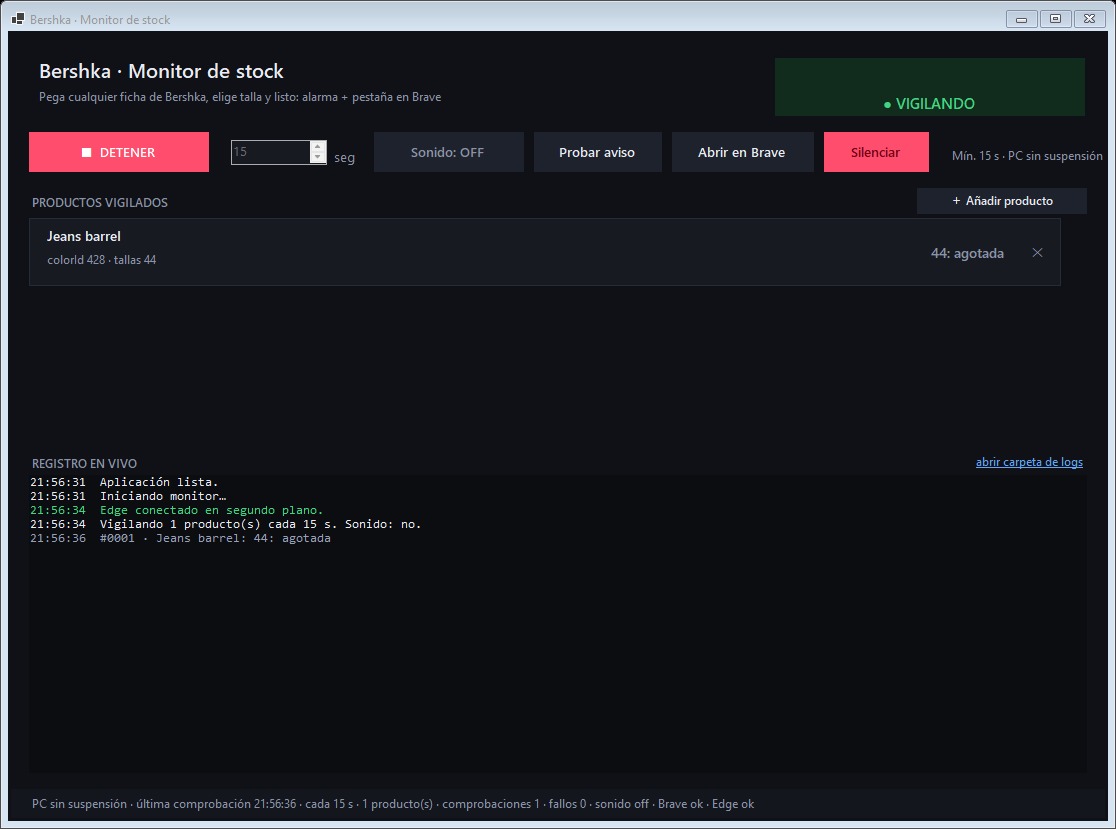
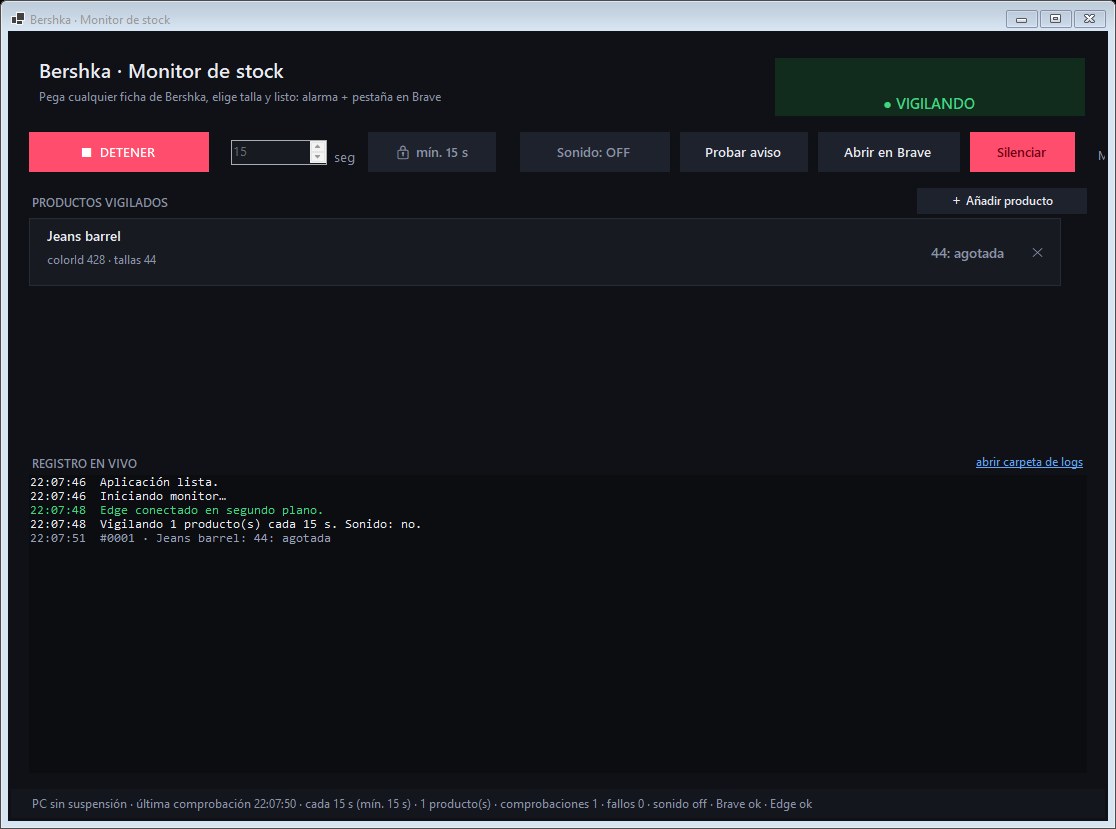
Candado de intervalo con aviso, README: solo alarma + open source y atribucion

diff --git a/MainForm.cs b/MainForm.cs
@@ -31,12 +31,14 @@ public sealed class MainForm : Form
     private bool _alertTestMode;
     private long _muteUntilTicks;
     private bool _soundEnabled;
+    private bool _allowFast;
 
     private Label _pill = null!;
     private Label _foot = null!;
     private Button _btnToggle = null!;
     private Button _btnSilence = null!;
     private Button _btnSound = null!;
+    private Button _btnLock = null!;
     private NumericUpDown _num = null!;
     private RichTextBox _log = null!;
     private FlowLayoutPanel _itemsPanel = null!;
@@ -45,7 +47,8 @@ public sealed class MainForm : Form
     public MainForm()
     {
         _config = AppConfig.Load(AppPaths.DataDir);
-        _intervalSec = Math.Clamp(_config.IntervalSeconds, 15, 120);
+        _allowFast = _config.AllowFastInterval;
+        _intervalSec = Math.Clamp(_config.IntervalSeconds, _allowFast ? 5 : 15, 120);
         _soundEnabled = _config.SoundEnabled;
         _alarm.Enabled = _soundEnabled;
 
@@ -228,9 +231,9 @@ public sealed class MainForm : Form
 
         _num = new NumericUpDown
         {
-            Minimum = 15,
+            Minimum = _allowFast ? 5 : 15,
             Maximum = 120,
-            Value = Math.Clamp(_intervalSec, 15, 120),
+            Value = Math.Clamp(_intervalSec, _allowFast ? 5 : 15, 120),
             Width = 96,
             Height = 30,
             Margin = new Padding(12, 8, 4, 0),
@@ -254,6 +257,11 @@ public sealed class MainForm : Form
             ForeColor = Palette.Muted,
             Margin = new Padding(0, 16, 0, 0)
         };
+
+        _btnLock = MakeButton(_allowFast ? "🔓 mín. 5 s" : "🔒 mín. 15 s", Palette.Chip, Palette.Text, 128);
+        _btnLock.Margin = new Padding(8, 0, 10, 0);
+        _btnLock.ForeColor = _allowFast ? Palette.Amber : Palette.Muted;
+        _btnLock.Click += (_, _) => ToggleFast();
 
         _btnSound = MakeButton("", Palette.Chip, Palette.Text, 150);
         _btnSound.Margin = new Padding(14, 0, 10, 0);
@@ -291,7 +299,7 @@ public sealed class MainForm : Form
             Margin = new Padding(10, 16, 0, 0)
         };
 
-        bar.Controls.AddRange(new Control[] { _btnToggle, _num, lblSeg, _btnSound, btnTest, btnBrave, _btnSilence, hint });
+        bar.Controls.AddRange(new Control[] { _btnToggle, _num, lblSeg, _btnLock, _btnSound, btnTest, btnBrave, _btnSilence, hint });
         return bar;
     }
 
@@ -301,6 +309,36 @@ public sealed class MainForm : Form
         _btnSound.Text = _soundEnabled ? "Sonido: ON" : "Sonido: OFF";
         _btnSound.BackColor = _soundEnabled ? Palette.GreenBg : Palette.Chip;
         _btnSound.ForeColor = _soundEnabled ? Palette.Green : Palette.Muted;
+    }
+
+    private void ToggleFast()
+    {
+        if (!_allowFast)
+        {
+            using var dialog = new FastIntervalDialog();
+            if (dialog.ShowDialog(this) != DialogResult.OK) return;
+
+            _allowFast = true;
+            _num.Minimum = 5;
+            _config.AllowFastInterval = true;
+            _btnLock.Text = "🔓 mín. 5 s";
+            _btnLock.ForeColor = Palette.Amber;
+            Log("¡Mínimo desbloqueado! Ya puedes bajar de 15 s. Bajo tu responsabilidad.", LogKind.Warn);
+        }
+        else
+        {
+            _allowFast = false;
+            _num.Minimum = 15;
+            if (_num.Value < 15) _num.Value = 15;
+            _config.AllowFastInterval = false;
+            _btnLock.Text = "🔒 mín. 15 s";
+            _btnLock.ForeColor = Palette.Muted;
+            Log("Mínimo bloqueado de nuevo en 15 s.", LogKind.Info);
+        }
+
+        _config.IntervalSeconds = _intervalSec;
+        _config.Save(AppPaths.DataDir);
+        UpdateFooter();
     }
 
     private Control BuildItems()
@@ -1135,7 +1173,7 @@ public sealed class MainForm : Form
     private void UpdateFooter()
     {
         var last = _lastCheckUtc == DateTime.MinValue ? "—" : _lastCheckUtc.ToLocalTime().ToString("HH:mm:ss");
-        var text = $"PC sin suspensión · última comprobación {last} · cada {_intervalSec} s · " +
+        var text = $"PC sin suspensión · última comprobación {last} · cada {_intervalSec} s (mín. {(_allowFast ? 5 : 15)} s) · " +
                    $"{_items.Count} producto(s) · comprobaciones {_checks} · fallos {_failStreak} · " +
                    $"sonido {(_soundEnabled ? "on" : "off")} · Brave {(FindBrave() is null ? "no" : "ok")} · Edge {(_edge is null ? "—" : "ok")}";
 

diff --git a/FastIntervalDialog.cs b/FastIntervalDialog.cs
@@ -1,0 +1,75 @@
+namespace BershkaMonitor;
+
+public sealed class FastIntervalDialog : Form
+{
+    public FastIntervalDialog()
+    {
+        Text = "Aviso: bajar del mínimo recomendado";
+        ClientSize = new Size(660, 400);
+        StartPosition = FormStartPosition.CenterParent;
+        FormBorderStyle = FormBorderStyle.FixedDialog;
+        MaximizeBox = false;
+        MinimizeBox = false;
+        BackColor = Color.FromArgb(38, 12, 18);
+        ForeColor = Color.FromArgb(255, 220, 226);
+        Font = new Font("Segoe UI", 9.75f);
+
+        Controls.Add(new Label
+        {
+            Text = "⚠  Bajar de 15 segundos",
+            Font = new Font("Segoe UI Black", 19f),
+            ForeColor = Color.FromArgb(255, 77, 109),
+            AutoSize = true,
+            Location = new Point(28, 22)
+        });
+
+        Controls.Add(new Label
+        {
+            Text =
+                "El mínimo de 15 s está puesto para no abusar de la web.\n\n" +
+                "Si lo desbloqueas y bajas el intervalo:\n\n" +
+                "   •  se multiplican las peticiones a Bershka\n" +
+                "   •  pueden limitar o bloquear temporalmente tu conexión\n" +
+                "   •  el monitor puede empezar a fallar y perder el reestock\n" +
+                "   •  no hay ninguna garantía de que funcione mejor\n\n" +
+                "Es tu responsabilidad. ¿Quieres desbloquearlo igualmente?",
+            Font = new Font("Segoe UI", 10f),
+            ForeColor = Color.FromArgb(255, 190, 200),
+            AutoSize = false,
+            Size = new Size(604, 240),
+            Location = new Point(30, 74)
+        });
+
+        var accept = new Button
+        {
+            Text = "Entiendo el riesgo: desbloquear",
+            Location = new Point(30, 330),
+            Size = new Size(360, 46),
+            BackColor = Color.FromArgb(255, 77, 109),
+            ForeColor = Color.White,
+            FlatStyle = FlatStyle.Flat,
+            Font = new Font("Segoe UI Semibold", 10.5f),
+            Cursor = Cursors.Hand
+        };
+        accept.FlatAppearance.BorderSize = 0;
+        accept.Click += (_, _) => DialogResult = DialogResult.OK;
+
+        var cancel = new Button
+        {
+            Text = "Cancelar",
+            Location = new Point(404, 330),
+            Size = new Size(226, 46),
+            BackColor = Color.FromArgb(60, 24, 34),
+            ForeColor = Color.White,
+            FlatStyle = FlatStyle.Flat,
+            Font = new Font("Segoe UI", 10f),
+            Cursor = Cursors.Hand
+        };
+        cancel.FlatAppearance.BorderSize = 0;
+        cancel.Click += (_, _) => DialogResult = DialogResult.Cancel;
+
+        Controls.Add(accept);
+        Controls.Add(cancel);
+        CancelButton = cancel;
+    }
+}

diff --git a/Config.cs b/Config.cs
@@ -6,6 +6,7 @@ namespace BershkaMonitor;
 public sealed class AppConfig
 {
     public int IntervalSeconds { get; set; } = 15;
+    public bool AllowFastInterval { get; set; }
     public bool SoundEnabled { get; set; } = true;
     public bool OpenInBrave { get; set; } = true;
     public List<ItemConfig> Items { get; set; } = new();

diff --git a/README.md b/README.md
@@ -2,7 +2,15 @@
 
 Aplicación de escritorio para Windows que vigila la disponibilidad de las tallas que elijas en **cualquier ficha de Bershka** y te avisa con alarma sonora, ventana emergente y una pestaña abierta en Brave.
 
-> Proyecto personal, sin relación con Inditex/Bershka. Úsalo de forma responsable y respetando los términos de la web. No compra nada por ti.
+> Proyecto personal, sin relación con Inditex/Bershka. Úsalo de forma responsable y respetando los términos de la web.
+
+> **Solo es una alarma.** No añade a la cesta, no rellena datos y no compra nada. Cuando detecta stock, avisa y abre la ficha; la compra la haces tú.
+
+## 100 % abierto: cópialo, cámbialo, mejóralo
+
+El código es libre (MIT): puedes copiarlo, modificarlo, forkerlo y redistribuirlo, incluso sin pedir permiso. No me molesta que se reutilice.
+
+Lo único que pido (y que la licencia MIT ya exige) es **mantener el aviso de copyright** y, si te apetece, enlazar el repo original y darme las gracias. Con eso me vale.
 
 ![Ventana principal](docs/app.png)
 
@@ -24,7 +32,8 @@ La app es portable: guarda `config.json`, `logs/` y el perfil interno de Edge **
 ## Qué hace
 
 - Añades un producto pegando su URL de Bershka y escribiendo la talla (o varias: `42,44,46`).
-- Consulta el stock cada 15 s (mínimo configurable hasta 120 s) en un **Edge oculto en segundo plano**, así que no te abre ventanas de Edge.
+- Consulta el stock cada 15 s (mínimo recomendado) en un **Edge oculto en segundo plano**, así que no te abre ventanas de Edge.
+- **Candado de 15 s**: el intervalo no baja de 15 s. Si pulsas el candado `🔒 mín. 15 s`, sale un aviso en rojo explicando las consecuencias; si lo aceptas, se desbloquea hasta 5 s (bajo tu responsabilidad).
 - Cuando la talla pasa a disponible:
   - **Ventana emergente grande y siempre encima** con un botón `OK · ¡VOY A COMPRAR!`.
   - **Sirena + voz** que no para hasta que pulsas OK (o silencias). Se puede desactivar con `Sonido: ON/OFF`.
@@ -53,6 +62,7 @@ La app es portable: guarda `config.json`, `logs/` y el perfil interno de Edge **
 ```json
 {
   "intervalSeconds": 15,
+  "allowFastInterval": false,
   "soundEnabled": true,
   "openInBrave": true,
   "items": [
@@ -65,7 +75,8 @@ La app es portable: guarda `config.json`, `logs/` y el perfil interno de Edge **
 }
 ```
 
-- `intervalSeconds`: 15–120.
+- `intervalSeconds`: 15–120 (o 5–120 si desbloqueas el candado).
+- `allowFastInterval`: si es `true`, permite bajar de 15 s sin pasar por el aviso (equivale a desbloquear el candado).
 - `soundEnabled`: sirena y voz.
 - `openInBrave`: abrir pestaña automáticamente al detectar stock.
 - `items`: lista de productos. También se puede editar a mano y reiniciar.
@@ -103,6 +114,10 @@ Funciona con cualquier producto de Bershka sin depender de IDs internos. Se reca
 - Si cierras la app o el PC se apaga/suspende, deja de vigilar.
 - La web puede bloquear peticiones si se abusa de la frecuencia; el log muestra los fallos.
 - No automatiza la compra.
+
+## Atribución
+
+Si copias o redistribuyes este proyecto (o una versión modificada), mantén el archivo `LICENSE` con el aviso de copyright. Además, si quieres, añade un enlace al repo original y un “gracias”; no es obligatorio, pero se agradece.
 
 ## Licencia
 
